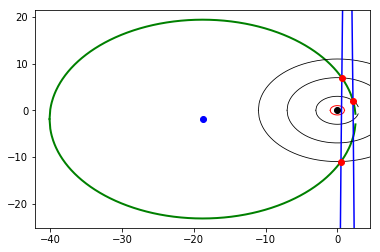
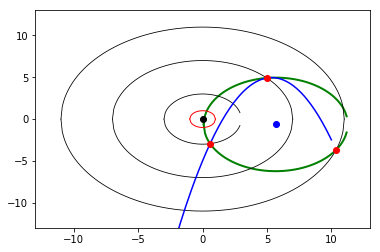
Graph centering

diff --git a/demo/plottingpoints.md b/demo/plottingpoints.md
@@ -75,8 +75,8 @@ def plot_circle(r, cx, cy, color, lw=2):
         
 def plot(points, cen, r, a, b, c, radii, tolerance):
     if (r != "N/A"):
-        plt.xlim(cen[0] - r-2, cen[0] + r + 2) #circle plus padding
-        plt.ylim(cen[1] - r-2, cen[1] + r + 2) #circle plus padding
+        plt.xlim(-radii[-1] -2, radii[-1] +2) #2 units padding
+        plt.ylim(-radii[-1] -2, radii[-1] +2)
         plt.autoscale(False)
             
     #plot circle and center
@@ -164,17 +164,17 @@ if __name__ == "__main__":
         print("Quadratic through origin: "+str(quad_near_origin([a,b,c],tolerance)))
         print("Circle through origin: "+str(circle_near_origin(r,cen,tolerance)))
         print("Tolerance: {}".format(tolerance))
+        print("Graph below:")
         plot(points, cen, r, a, b, c, radii, tolerance)
-print("="*40)
 ```
 
     ========================================
-    Points: [(1.47, -2.62), (5.1, -4.8), (8.97, -6.37)]
-    Center: (17.22,19.47)
-    Radius: 27.13
-    Quadratic: 0.03x^2+-0.77x+-1.54
-    Quadratic through origin: False
-    Circle through origin: False
+    Points: [(0.22, 2.99), (5.0, -4.9), (6.74, 8.7)]
+    Center: (7.06,1.75)
+    Radius: 6.96
+    Quadratic: 1.46x^2+-9.25x+4.93
+    Quadratic through origin: True
+    Circle through origin: True
     Tolerance: 1
 
 
@@ -182,10 +182,10 @@ print("="*40)
 ![png](output_0_1.png)
 
 
-    Points: [(1.87, -2.35), (3.84, 5.85), (9.22, 6.0)]
-    Center: (6.67,0.83)
-    Radius: 5.76
-    Quadratic: -0.56x^2+7.35x+-14.11
+    Points: [(1.95, 2.28), (0.4, -6.99), (7.07, -8.42)]
+    Center: (4.76,-2.96)
+    Radius: 5.94
+    Quadratic: -1.2x^2+8.78x+-10.28
     Quadratic through origin: False
     Circle through origin: True
     Tolerance: 1
@@ -195,12 +195,12 @@ print("="*40)
 ![png](output_0_3.png)
 
 
-    Points: [(2.18, 2.06), (0.62, 6.97), (0.51, -10.99)]
-    Center: (-18.77,-1.89)
-    Radius: 21.32
-    Quadratic: -95.95x^2+265.25x+-120.49
-    Quadratic through origin: True
-    Circle through origin: False
+    Points: [(0.58, -2.94), (4.99, 4.91), (10.36, -3.69)]
+    Center: (5.68,-0.64)
+    Radius: 5.59
+    Quadratic: -0.35x^2+3.71x+-4.99
+    Quadratic through origin: False
+    Circle through origin: True
     Tolerance: 1
 
 
@@ -208,12 +208,12 @@ print("="*40)
 ![png](output_0_5.png)
 
 
-    Points: [(0.43, -2.97), (6.02, 3.57), (8.94, -6.41)]
-    Center: (5.81,-1.91)
-    Radius: 5.49
-    Quadratic: -0.54x^2+4.65x+-4.86
+    Points: [(2.34, -1.88), (6.72, 1.95), (3.21, 10.52)]
+    Center: (0.65,4.47)
+    Radius: 6.57
+    Quadratic: -3.79x^2+35.19x+-63.41
     Quadratic through origin: False
-    Circle through origin: True
+    Circle through origin: False
     Tolerance: 1
 
 
@@ -221,11 +221,11 @@ print("="*40)
 ![png](output_0_7.png)
 
 
-    Points: [(1.79, 2.41), (4.99, -4.91), (9.16, -6.1)]
-    Center: (8.99,1.21)
-    Radius: 7.31
-    Quadratic: 0.27x^2+-4.12x+8.9
-    Quadratic through origin: False
+    Points: [(0.53, 2.95), (5.31, 4.56), (4.24, 10.15)]
+    Center: (1.89,6.8)
+    Radius: 4.09
+    Quadratic: -1.5x^2+9.09x+-1.41
+    Quadratic through origin: True
     Circle through origin: False
     Tolerance: 1
 
